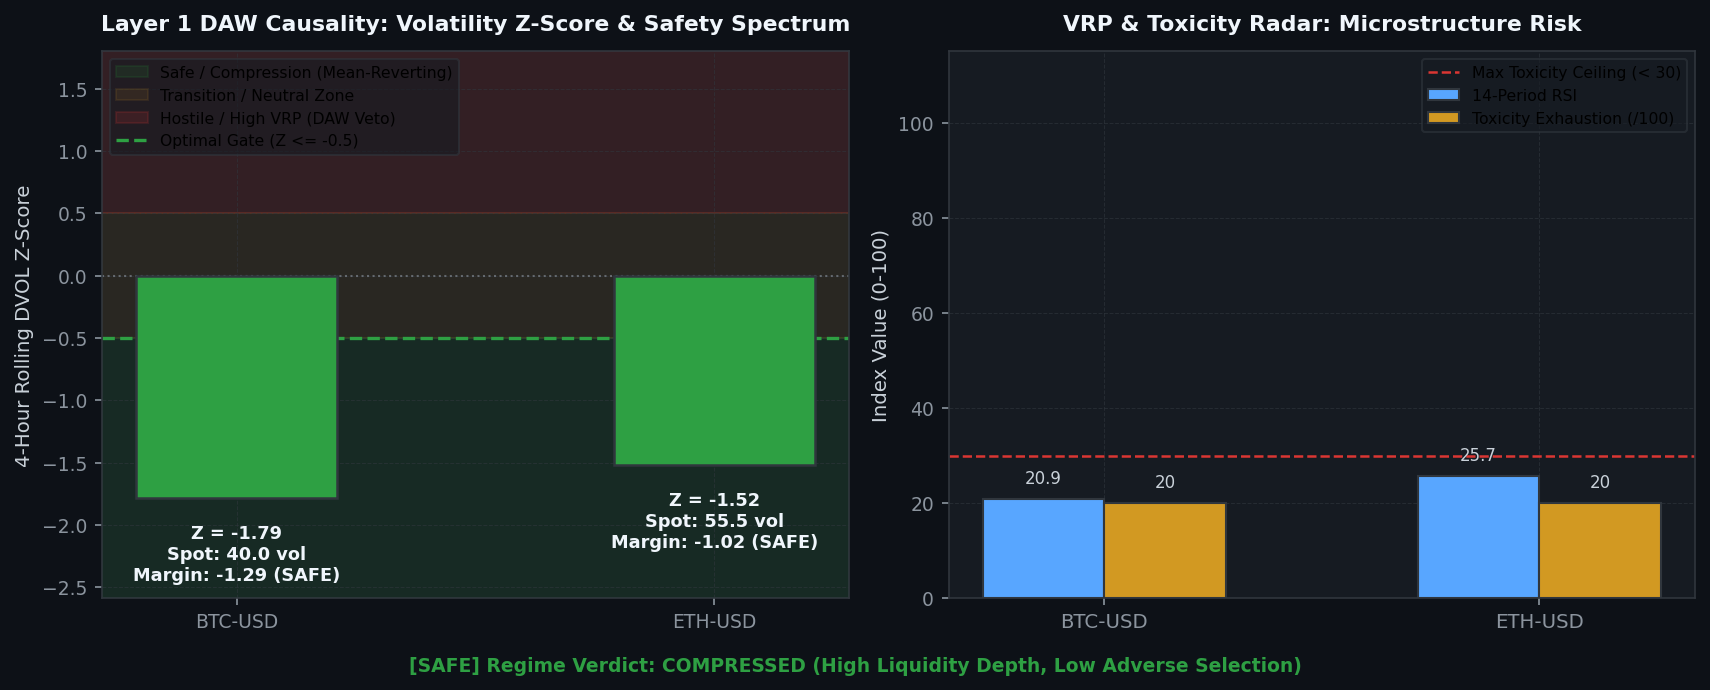
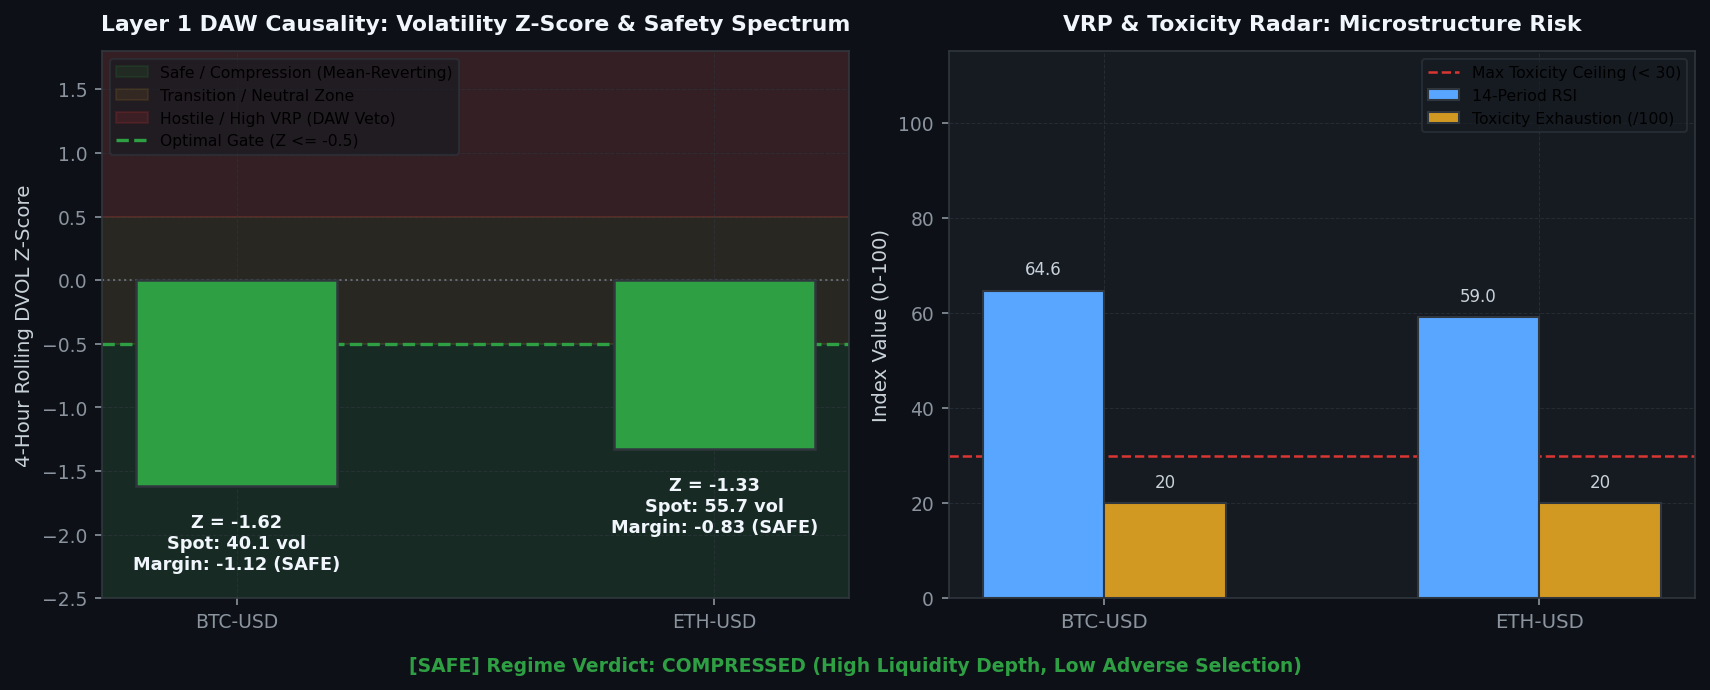
[coinbase] Hourly Status & Visual Intelligence Update: 2026-08-26 10:18:01

diff --git a/coinbase/data/hourly_status_report.md b/coinbase/data/hourly_status_report.md
@@ -3,7 +3,7 @@ layout: default
 ---
 
 # 🛡 Unified Trading System Hourly Status & Visual Intelligence
-> **Report Generated**: `2026-08-26 10:00:03 AM PDT (2026-08-26 17:00:03 UTC)`  
+> **Report Generated**: `2026-08-26 10:17:43 AM PDT (2026-08-26 17:17:43 UTC)`  
 > **System Health**: **🟡 DEGRADED / RESTRICTED** | **Win Rate**: `0.0%` | **Completed Trades**: `0`
 
 
@@ -15,13 +15,13 @@ Real-time Deribit implied volatility (DVOL) proxy tracking against mathematicall
 
 | Symbol | Proxy Oracle | Live Z-Score | Optimal Limit (YSP) | Safety Margin | Live VRP | Optimal VRP (YSP) | DAW Safety Verdict |
 | :--- | :--- | :--- | :--- | :--- | :--- | :--- | :--- |
-| `AVAX-USD` | DVOL_BTC | **-1.79** | **-0.50** | **-1.29** | **+5.36** | 5.0 | 🔴 DAW VETOED |
-| `ETH-USD` | DVOL_ETH | **-1.52** | **-0.50** | **-1.02** | **+18.70** | 5.0 | 🔴 DAW VETOED |
-| `ADA-USD` | DVOL_BTC | **-1.79** | **-0.50** | **-1.29** | **+5.36** | 5.0 | 🔴 DAW VETOED |
-| `DOGE-USD` | DVOL_BTC | **-1.79** | **-0.50** | **-1.29** | **+5.36** | 5.0 | 🔴 DAW VETOED |
-| `BTC-USD` | DVOL_BTC | **-1.79** | **-0.50** | **-1.29** | **+5.19** | 5.0 | 🔴 DAW VETOED |
-| `LINK-USD` | DVOL_BTC | **-1.79** | **-0.50** | **-1.29** | **+5.36** | 5.0 | 🔴 DAW VETOED |
-| `SOL-USD` | DVOL_BTC | **-1.79** | **-0.50** | **-1.29** | **+5.19** | 5.0 | 🔴 DAW VETOED |
+| `AVAX-USD` | DVOL_BTC | **-1.62** | **-0.50** | **-1.12** | **+5.36** | 5.0 | 🔴 DAW VETOED |
+| `ETH-USD` | DVOL_ETH | **-1.33** | **-0.50** | **-0.83** | **+18.39** | 5.0 | 🔴 DAW VETOED |
+| `ADA-USD` | DVOL_BTC | **-1.62** | **-0.50** | **-1.12** | **+5.36** | 5.0 | 🔴 DAW VETOED |
+| `DOGE-USD` | DVOL_BTC | **-1.62** | **-0.50** | **-1.12** | **+5.36** | 5.0 | 🔴 DAW VETOED |
+| `BTC-USD` | DVOL_BTC | **-1.62** | **-0.50** | **-1.12** | **+5.19** | 5.0 | 🔴 DAW VETOED |
+| `LINK-USD` | DVOL_BTC | **-1.62** | **-0.50** | **-1.12** | **+5.36** | 5.0 | 🔴 DAW VETOED |
+| `SOL-USD` | DVOL_BTC | **-1.62** | **-0.50** | **-1.12** | **+5.19** | 5.0 | 🔴 DAW VETOED |
 
 
 
@@ -37,12 +37,12 @@ We hereby certify that the mission-critical algorithmic data assets uploaded by 
 
 | Status | Data Asset | Freshness / State | Details / Timestamp |
 | :---: | :--- | :--- | :--- |
-| ✅ | **Go-List JSON** | Fresh (24.97h old) | 08-25 09:02 |
-| ✅ | **TimesFM Forecasts** | Fresh (1.95h old) | 08-26 08:03 |
-| ❌ | **Holding Times config** | STALE! (121.0h old) | Limit 63.0h |
-| ✅ | **BTC DVOL Cache** | Fresh (0.00h old) | 08-26 10:00 |
-| ✅ | **ETH DVOL Cache** | Fresh (0.00h old) | 08-26 10:00 |
-| ❌ | **Live Trading Telemetry** | STALE! (2.1h old) | Limit 0.1h |
+| ✅ | **Go-List JSON** | Fresh (25.26h old) | 08-25 09:02 |
+| ✅ | **TimesFM Forecasts** | Fresh (2.24h old) | 08-26 08:03 |
+| ❌ | **Holding Times config** | STALE! (121.3h old) | Limit 63.3h |
+| ✅ | **BTC DVOL Cache** | Fresh (0.01h old) | 08-26 10:17 |
+| ✅ | **ETH DVOL Cache** | Fresh (0.01h old) | 08-26 10:17 |
+| ❌ | **Live Trading Telemetry** | STALE! (2.4h old) | Limit 0.1h |
 
 <br>
 
@@ -55,7 +55,7 @@ Layer-by-layer tick evaluation waterfall and asset-specific performance tracking
 
 | Funnel Filter Layer | Total Rejections | % of Rejections |
 | :--- | :--- | :--- |
-| Tier 1: Macro Volatility Tensor Gate (Omega_macro) | `9,785` | **100.0%** |
+| Tier 1: Macro Volatility Tensor Gate (Omega_macro) | `9,837` | **100.0%** |
 | Tier 2: Unified Transport & Directional Engine | `0` | **0.0%** |
 | Tier 3: Continuous Hawkes-SFGK Pricer (HAS-Pricer) | `0` | **0.0%** |
 | System: Asset Cooldown Active | `0` | **0.0%** |
@@ -101,14 +101,14 @@ Live balance sheet and open maker liquidity positions from Coinbase CDP.
 ## 4. 🤖 Foundation Model MLOps & Pipeline Orchestration
 Weekly Algorithmic Mega Cap selection, Zero-shot multi-step forward return forecasts, and VSTEF parameter grid search status.
 
-- **TimesFM Forecast DB**: 🟢 Updated 1.9h ago (2026-08-26 08:03 AM PDT)
+- **TimesFM Forecast DB**: 🟢 Updated 2.2h ago (2026-08-26 08:03 AM PDT)
 - **Last Weekly VSTEF Optimization**: `2026-08-05 09:22:38 AM PDT`
-- **Next Scheduled VSTEF Run**: `2026-08-30 07:00:00 PM PDT (Monday 02:00 UTC)` (Countdown: **105.0h (4d 8h 59m)**)
+- **Next Scheduled VSTEF Run**: `2026-08-30 07:00:00 PM PDT (Monday 02:00 UTC)` (Countdown: **104.7h (4d 8h 42m)**)
 - **Promoted Parameter Gates**: $Z_{DVOL} \le -0.5$ | Holding Horizon $= 12\text{h}$
 
 ### Algorithmic Mega Cap Selection
 - **Last Run (Confirmation)**: `2026-08-25 09:02:14 AM PDT`
-- **Next Scheduled Run**: `2026-08-30 06:00:00 PM PDT (Monday 01:00 UTC)` (Countdown: **104.0h (4d 7h 59m)**)
+- **Next Scheduled Run**: `2026-08-30 06:00:00 PM PDT (Monday 01:00 UTC)` (Countdown: **103.7h (4d 7h 42m)**)
 - **Selected Mega Cap Universe**: `BTC, BCH, AVAX, ETH, ALGO, ADA, LTC, DOGE, AAVE, LINK, DOT, HBAR`
 
 
@@ -122,8 +122,8 @@ Visualizing the impact of the VSTEF (Volatility-Synchronized Stop-Tightening Exe
 ## 5. 🖥 Multi-Node Infrastructure & Watchdog Matrix
 ```text
 ================================================================================
-   🛡  SFGK FUNNEL GUARDIAN WATCHDOG (HFT ONLY) |  05:00:04 PM
-   CPU:   5.5%  |  MEM:   8.4% (14.1GB / 15.4GB Free)
+   🛡  SFGK FUNNEL GUARDIAN WATCHDOG (HFT ONLY) |  05:17:42 PM
+   CPU:   2.7%  |  MEM:   8.3% (14.1GB / 15.4GB Free)
 ================================================================================
 SERVICE              | PID      | STATUS          | RESTARTS | INFO
 --------------------------------------------------------------------------------
@@ -131,7 +131,7 @@ L3 Consumer          | 513596   | RUNNING         | -        | Continuous Websoc
 MAO Daemon           | 513602   | RUNNING         | -        | Oracle Yield Analysis
 Stable Farmer        | 513604   | RUNNING         | -        | Volume Farmer
 Trader AVAX-USD      | 513605   | RUNNING         | 0        | Evaluating Funnel/Polling Order
-Trader ETH-USD       | 566725   | COOL-DOWN       | 204      | Next run in 9.9s
+Trader ETH-USD       | 580542   | COOL-DOWN       | 256      | Next run in 4.8s
 Trader ADA-USD       | 513607   | RUNNING         | 0        | Evaluating Funnel/Polling Order
 Trader DOGE-USD      | 513608   | RUNNING         | 0        | Evaluating Funnel/Polling Order
 Trader BTC-USD       | 513609   | RUNNING         | 0        | Evaluating Funnel/Polling Order

diff --git a/coinbase/data/visual_intelligence.md b/coinbase/data/visual_intelligence.md
@@ -4,7 +4,7 @@ title: Visual Intelligence Gallery
 ---
 
 # 📈 Visual Intelligence Gallery
-> **Generated:** `2026-08-26 10:00:21`
+> **Generated:** `2026-08-26 10:18:01`
 > **[Return to Main Status Report](./hourly_status_report.md)**
 
 This page visualizes the internal states, market profiles, and decision criteria of the active **3-Tier Fused Decision Engine** across all layers.
